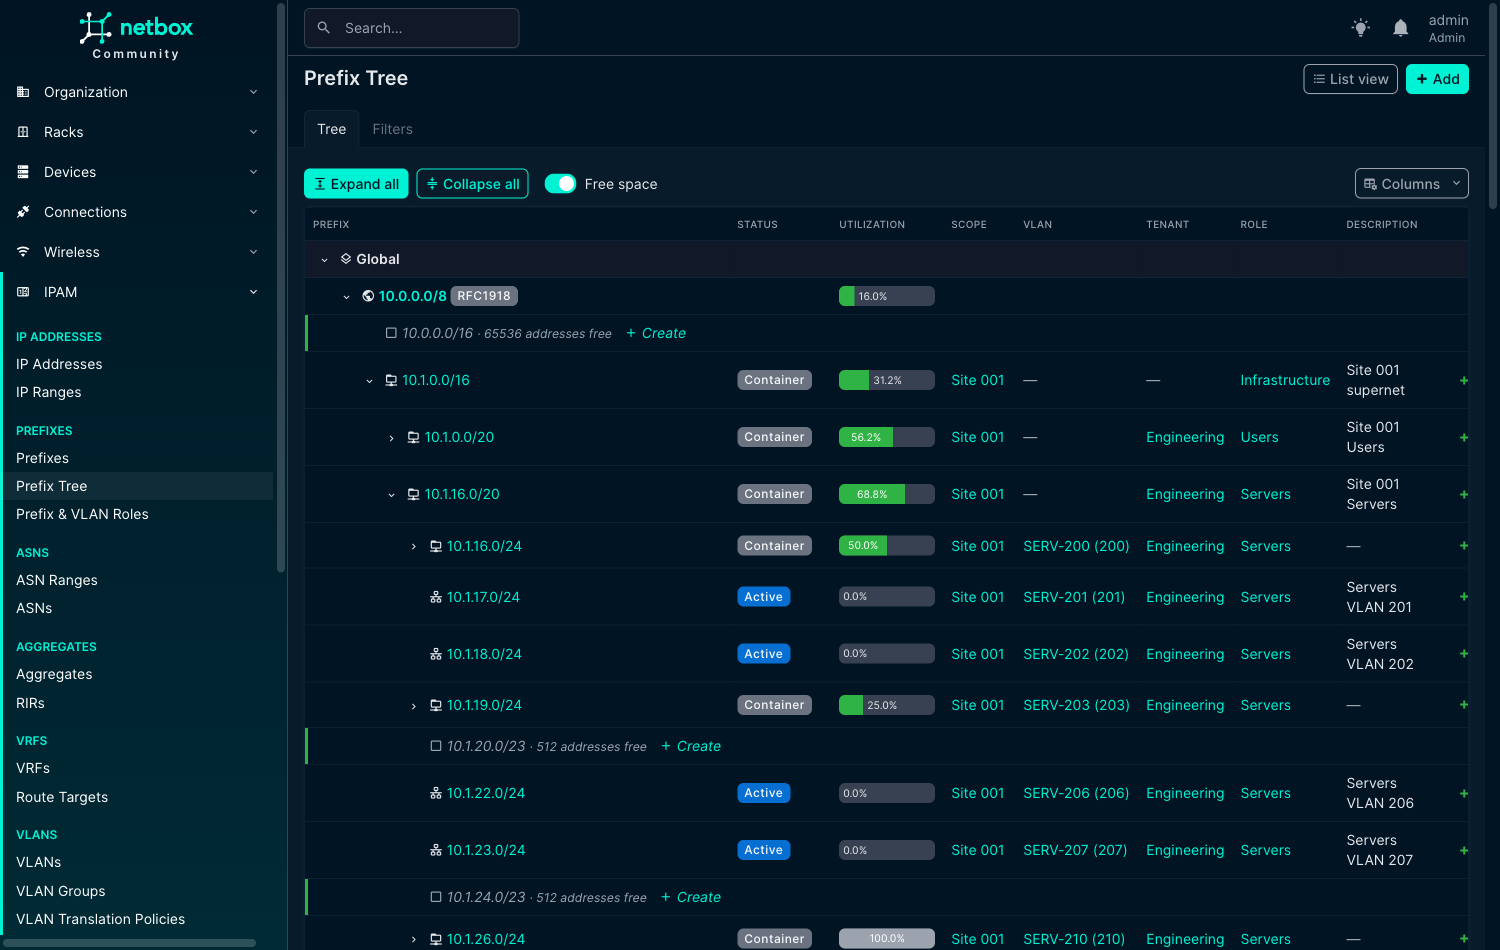
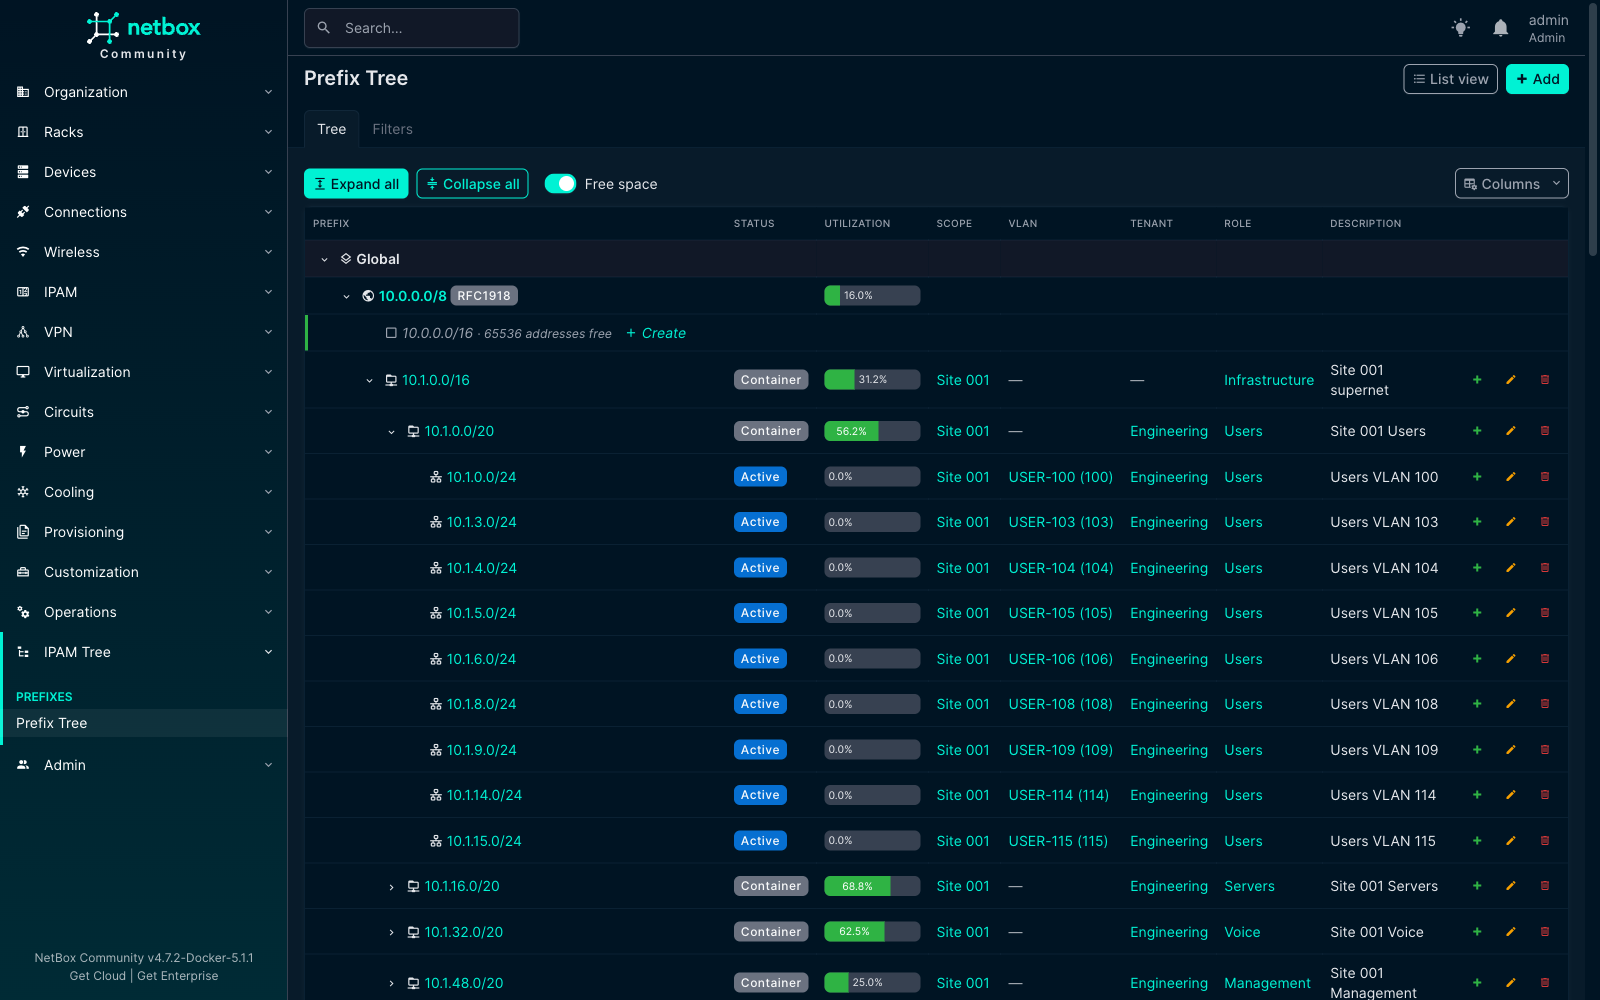
chore: release 0.2.0; add documentation screenshots
Refresh the light/dark hero screenshots (new IPAM Tree menu) and add
screenshots of the menu, free space, filtered tree, column picker,
Tree view button and Tree tab to the usage and configuration pages.
Bump the version to 0.2.0 and date the changelog.

diff --git a/tests/test_package.py b/tests/test_package.py
@@ -9,7 +9,7 @@ from netbox_ipam_treeview.conf import DEFAULTS, PLUGIN_NAME
 
 
 def test_version():
-    assert __version__ == "0.1.1"
+    assert __version__ == "0.2.0"
 
 
 def test_config_is_module_level():

diff --git a/netbox_ipam_treeview/version.py b/netbox_ipam_treeview/version.py
@@ -1,1 +1,1 @@
-__version__ = "0.1.1"
+__version__ = "0.2.0"

diff --git a/docs/usage.md b/docs/usage.md
@@ -10,6 +10,19 @@
 | *Tree* tab on an aggregate | That aggregate and the prefixes it covers. |
 | *Tree* tab on a VRF | That VRF's prefixes. |
 
+By default the page has its own *IPAM Tree* menu; `menu_location` moves the entry to the Plugins menu or right below
+*IPAM → Prefixes* (see [Configuration](configuration.md#where-the-tree-appears)).
+
+![The IPAM Tree menu in NetBox's navigation](img/menu.png)
+
+The *Tree view* button on the prefix list opens the tree with the list's filters applied:
+
+![The Tree view button on NetBox's prefix list](img/list-button.png)
+
+The *Tree* tab on a prefix shows that prefix and its children, with free space:
+
+![The Tree tab on a prefix page](img/prefix-tab.png)
+
 ## Levels
 
 The tree reads **VRF → Aggregate → Prefix → child prefix**:
@@ -35,13 +48,24 @@ Free-space rows show the unallocated blocks between a node's children, as the la
 - Under a global container, prefixes from VRFs also count as used space, as in NetBox's own child-prefix view.
 - A node shows at most `max_gap_rows` free-space rows; the rest are summarised in one row.
 
+![Free-space rows between allocated prefixes, each with a Create link](img/free-space.png)
+
 ## Filters
 
 The filter panel is NetBox's own prefix filter form. With a filter applied, the tree shows the matching prefixes plus their ancestors, greyed out, so you can see where each match sits. Filtered trees are capped by `expand_all_limit`.
 
+Here a search for `10.1.3` shows the matching prefixes in both the Global table and the CORP VRF, with their ancestors
+greyed out:
+
+![A filtered tree: matches with greyed-out ancestors](img/filtered.png)
+
 ## Columns
 
-The column picker in the toolbar chooses which columns to show and is saved in your NetBox user preferences. Available columns:
+The column picker in the toolbar chooses which columns to show and is saved in your NetBox user preferences.
+
+![The column picker](img/columns.png)
+
+Available columns:
 
 | Key | Column |
 |---|---|

diff --git a/README.md b/README.md
@@ -32,11 +32,11 @@ in place, one-click **Expand all** / **Collapse all**, and the tree remembering 
 
 | Plugin       | NetBox        | Python      |
 |--------------|---------------|-------------|
-| next release | 4.7.2 – 4.7.x | 3.12 – 3.14 |
+| 0.2.x        | 4.7.2 – 4.7.x | 3.12 – 3.14 |
 | 0.1.x        | 4.7.0 – 4.7.x | 3.12 – 3.14 |
 
-From the next release on, NetBox 4.7.2 or a later 4.7.x release is required: 4.7.0 and 4.7.1 recorded plaintext
-API tokens created through background bulk requests in job results. See the [per-release table](https://thomaschristory.github.io/netbox-ipam-treeview-plugin/installation/#compatibility).
+From 0.2.0 on, NetBox 4.7.2 or a later 4.7.x release is required: 4.7.0 and 4.7.1 recorded plaintext API tokens
+created through background bulk requests in job results. See the [per-release table](https://thomaschristory.github.io/netbox-ipam-treeview-plugin/installation/#compatibility).
 
 ## Installation
 

diff --git a/CHANGELOG.md b/CHANGELOG.md
@@ -5,6 +5,12 @@ versioning: [SemVer](https://semver.org/).
 
 ## [Unreleased]
 
+## [0.2.0] - 2026-10-27
+
+### Added
+
+- Documentation screenshots of the menu, free space, filters, column picker, list button and *Tree* tab.
+
 ### Changed
 
 - **Behaviour change:** the *Prefix Tree* entry now lives in the plugin's own *IPAM Tree* menu by default
@@ -17,7 +23,6 @@ versioning: [SemVer](https://semver.org/).
   checks instead of a hand-written copy, so they follow NetBox's auth handling (#9).
 - NetBox 4.7.2 is now the minimum version (`min_version`). 4.7.0 and 4.7.1 recorded plaintext API tokens created
   through background bulk requests in job results, and were never tested in CI. The dev stack is pinned to 4.7.2 (#12).
-
 - `config` is now defined unconditionally in `__init__.py`, per NetBox's plugin layout. If importing NetBox fails, the
   original error is raised instead of a missing-`config` error (#11).
 

diff --git a/docs/configuration.md b/docs/configuration.md
@@ -23,6 +23,10 @@ PLUGINS_CONFIG = {
 
 NetBox has no plugin API to add entries to its core menus. `menu_location = "ipam"` is opt-in: the plugin patches NetBox's IPAM menu at startup to insert its entry right below *Prefixes*. This relies on NetBox internals that may change between NetBox releases; if the IPAM menu does not look as expected, the entry falls back to the plugin's own *IPAM Tree* menu.
 
+The default, `"menu"`, looks like this:
+
+![The IPAM Tree menu](img/menu.png)
+
 ## Tree shape
 
 | Setting | Default | Meaning |

diff --git a/docs/index.md b/docs/index.md
@@ -34,7 +34,7 @@ Run `collectstatic` and restart NetBox. The tree lives at `/plugins/ipam-tree/`,
 
 | Plugin | NetBox | Python |
 |---|---|---|
-| next release | 4.7.2 to 4.7.x | 3.12, 3.13, 3.14 |
+| 0.2.x | 4.7.2 to 4.7.x | 3.12, 3.13, 3.14 |
 | 0.1.x | 4.7.0 to 4.7.x | 3.12, 3.13, 3.14 |
 
 Every release is listed in [Installation → Compatibility](installation.md#compatibility).

diff --git a/docs/installation.md b/docs/installation.md
@@ -13,7 +13,7 @@ NetBox refuses to load the plugin outside the `min_version` / `max_version` rang
 
 | Plugin release | Min NetBox | Max NetBox | Tested in CI |
 |---|---|---|---|
-| next release | 4.7.2 | 4.7.99 | 4.7.2 |
+| 0.2.0 | 4.7.2 | 4.7.99 | 4.7.2 |
 | 0.1.1 | 4.7.0 | 4.7.99 | 4.7.2 |
 | 0.1.0 | 4.7.0 | 4.7.99 | 4.7.2 |
 
